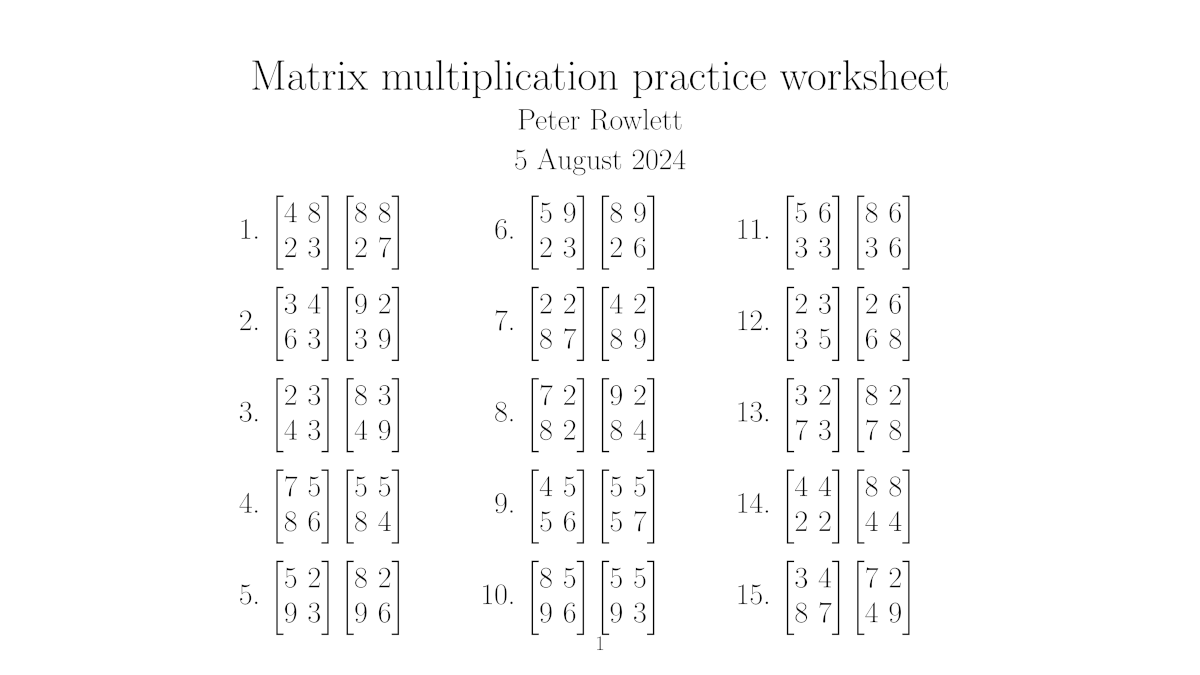
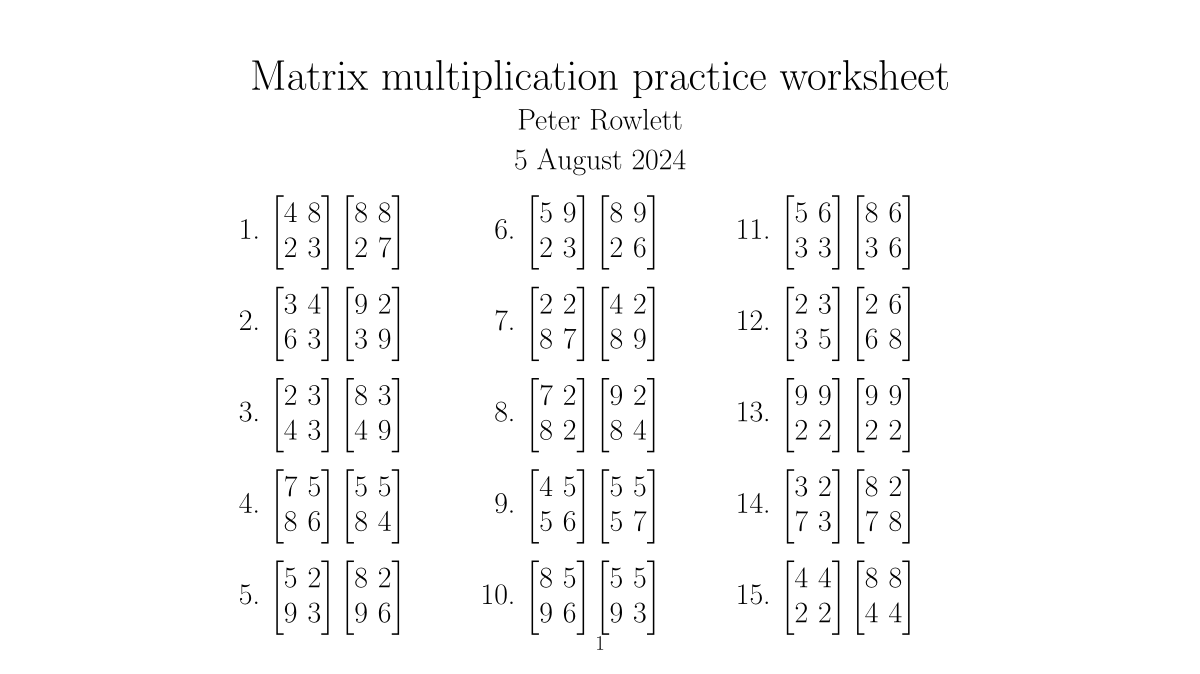
Threw in one squared result into the worksheet social media graphic

diff --git a/worksheet-sm.tex b/worksheet-sm.tex
@@ -102,6 +102,13 @@
                         6 & 8
                     \end{bmatrix}\)
                 \item \(\begin{bmatrix}
+                        9 & 9\\
+                        2 & 2
+                    \end{bmatrix}\begin{bmatrix}
+                        9 & 9\\
+                        2 & 2
+                    \end{bmatrix}\)
+                \item \(\begin{bmatrix}
                         3 & 2\\
                         7 & 3
                     \end{bmatrix}\begin{bmatrix}
@@ -114,13 +121,6 @@
                     \end{bmatrix}\begin{bmatrix}
                         8 & 8\\
                         4 & 4
-                    \end{bmatrix}\)
-                \item \(\begin{bmatrix}
-                        3 & 4\\
-                        8 & 7
-                    \end{bmatrix}\begin{bmatrix}
-                        7 & 2\\
-                        4 & 9
                     \end{bmatrix}\)
     
             \end{enumerate}
